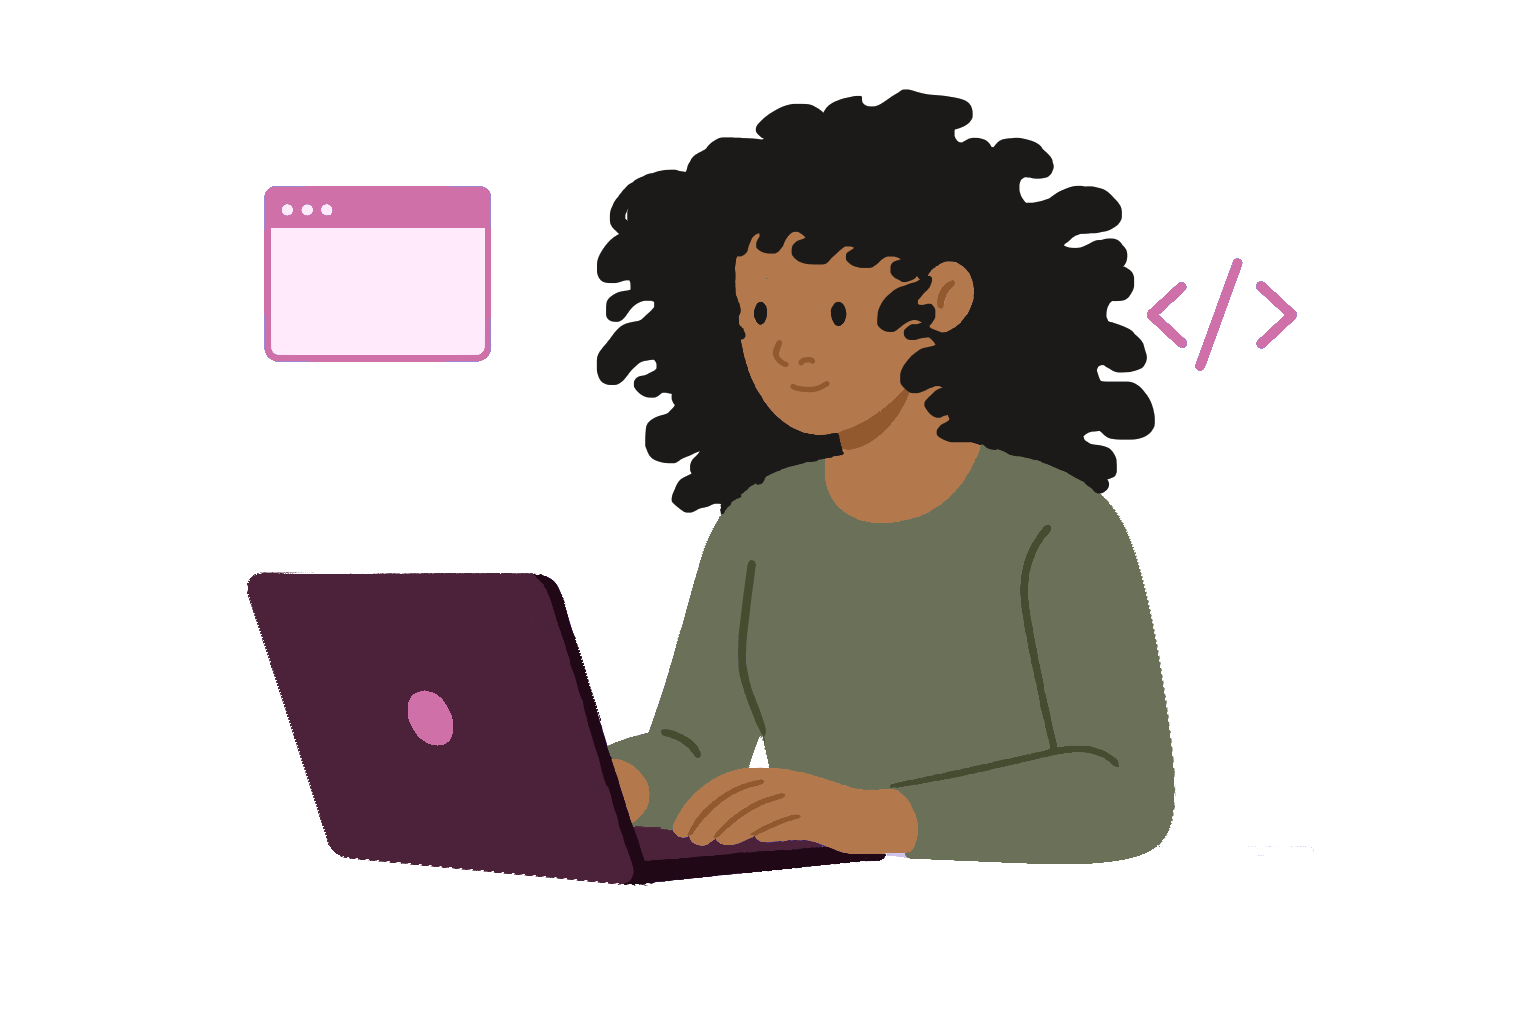
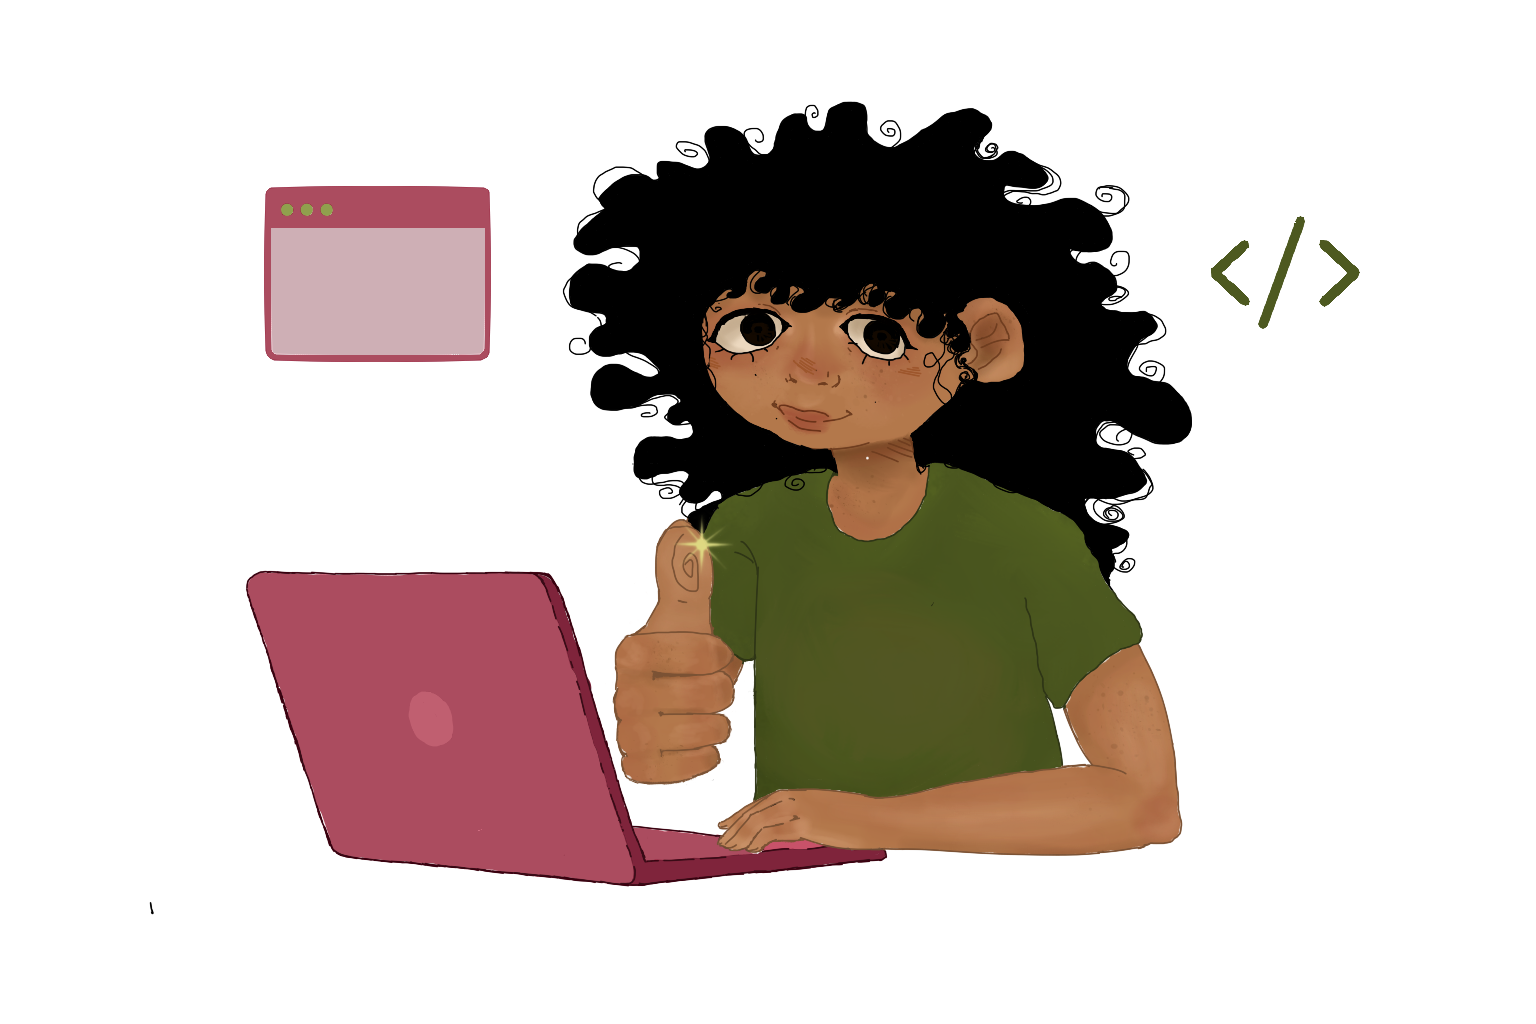
Alterações finais

diff --git a/assets/js/script.js b/assets/js/script.js
@@ -28,14 +28,15 @@ async function getAboutGithub() {
             <article class="about-content">
             <h2>Sobre mim</h2>
             <p>
-            Desenvolvedora Full-Stack em formação pela Generation Brasil, atualmente em transição de carreira para a área de tecnologia, com foco em desenvolvimento web. Tenho conhecimento em JavaScript, HTML, CSS, MySQL e Node.js. Inglês fluente.
-Possuo experiência na área de Estética Pet e no setor administrativo de vendas, de onde trago competências como atenção aos detalhes, organização, responsabilidade, empatia e cumprimento de prazos.
-            </p>
+            Sou Kayane do Val Lima, Desenvolvedora FullStack apaixonada por Front-End. Comecei minha jornada na área de desenvolvimento web com grande entusiasmo e dedicação no final de 2025.
+            Apesar do pouco tempo de atuação, trago experiências teóricas e práticas na área Tech, fazendo uso de HTML, CSS, Node.js, NestJS, MySQL e versionamento em Git.            </p>
 
             <p>
-Atualmente tenho o prazer de atuar como representante de classe da turma JS14 do Bootcamp de JavaScript da Generation Brasil, exercendo na prática habilidades de comunicação, organização, colaboração e liderança, tendo a responsabilidade de ser a ponte entre alunos e instrutores, contribuindo para o bom andamento das atividades.
+            Estou me graduando no Bootcamp de JavaScript da Generation Brasil, onde tenho o prazer de atuar como representante de classe da turma JS14.
+            Minhas experiências prévias em outras áreas me trouxeram diversos aprendizados sobre relações interpessoais, responsabilidade e trabalho em equipe — soft skills que busco aplicar no ambiente de trabalho. </p>
 
-Tenho facilidade em aprender, sou comprometida com meu desenvolvimento e estou em constante evolução.            </p>
+            <p>
+            Atualmente, estou em disposição para oportunidades de Júnior, freelance ou colaborações, onde possa contribuir com minha paixão por desenvolvimento web e continuar aprendendo e crescendo na área de tecnologia.
 
             <div class="about-buttons-data">
                 <div class="buttons-container">

diff --git a/index.html b/index.html
@@ -61,10 +61,9 @@
 
             <article class="hero-content">
 
-                <span> Olá! Sejam bem-vindes ao meu Portfólio! </span>
-                <h1>Meu nome é Kayane,</h1>
-                <p>Desenvolvedora Full-Stack em formação, com foco em JavaScript e desenvolvimento web. 
-                  Em transição de carreira, aplico minha experiência em organização, responsabilidade e atenção aos detalhes na construção de soluções e no aprendizado contínuo em tecnologia.</p>
+                <span> Olá! Sou Kayane do Val Lima, </span>
+                <h1> Desenvolvedora FullStack Junior </h1>
+                <p> Busco transformar ideias em realidade digital, criando experiências web envolventes e funcionais. </p>
 
                 <div class="buttons-container">
                     <a href="#contact" class="botao">Entre em Contato</a>
